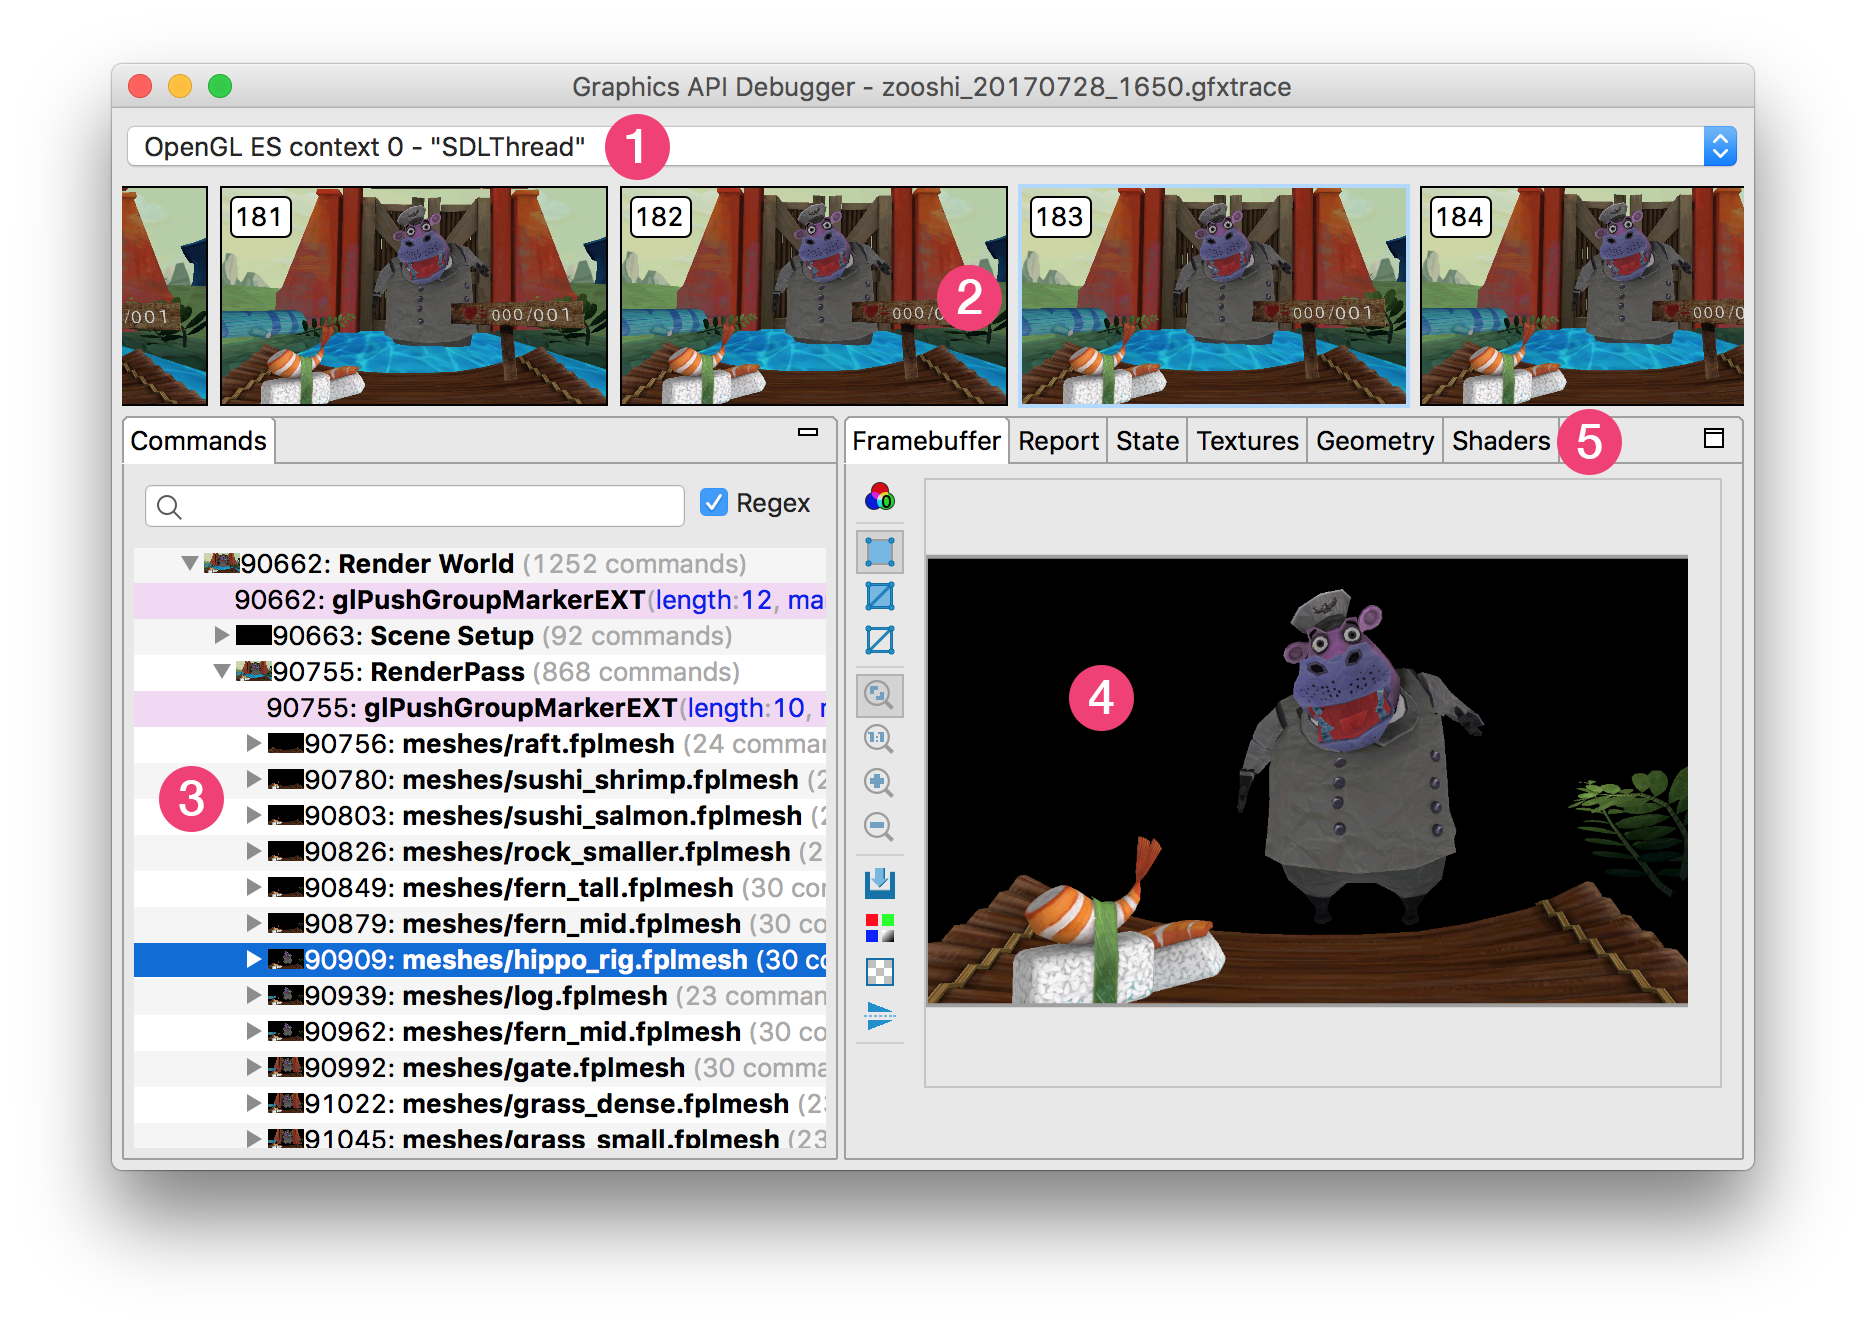
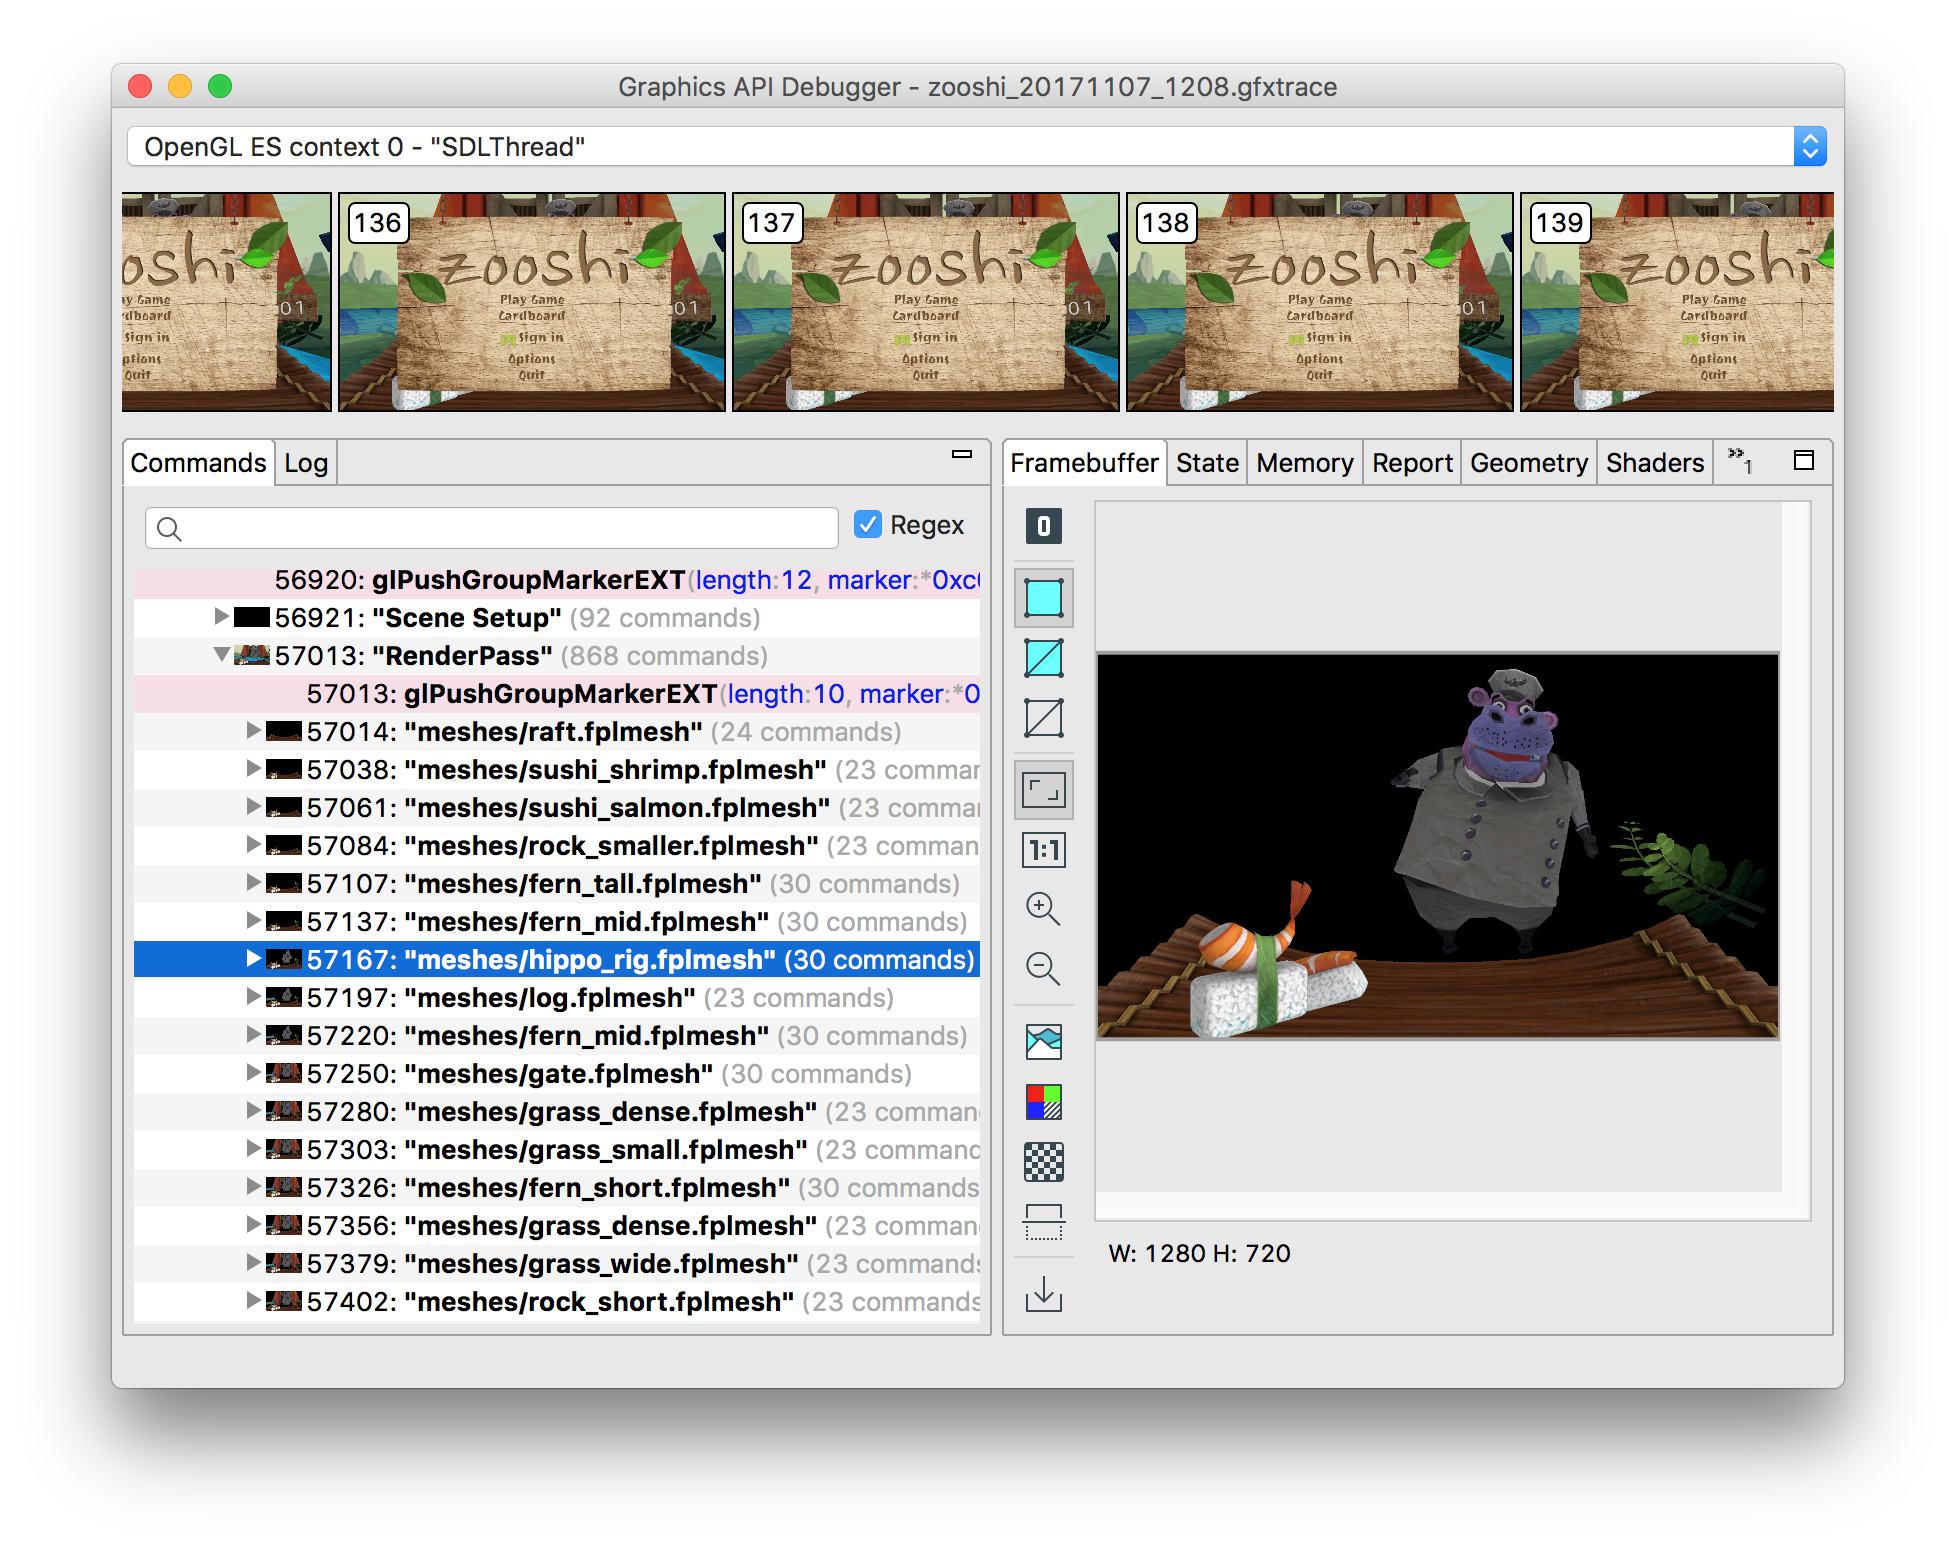
Update main-view.png image.
Use new overlay callouts.

diff --git a/inspect.md b/inspect.md
@@ -11,7 +11,14 @@ Once you've finished taking a trace, the capture will automatically open. You ca
 
 Upon opening a capture, you will be presented with the following window:
 
-<img src="../images/main-view.png" width="933px"/>
+<div class="callout-img">
+  <div style="margin: 60px 330px">1</div>
+  <div style="margin: 140px 500px">2</div>
+  <div style="margin: 400px 80px">3</div>
+  <div style="margin: 320px 570px">4</div>
+  <div style="margin: 220px 700px">5</div>
+  <img src="../images/main-view.png" width="978" height="774" alt="Main view"/>
+</div>
 
 <div class="callouts" markdown="block">
 
